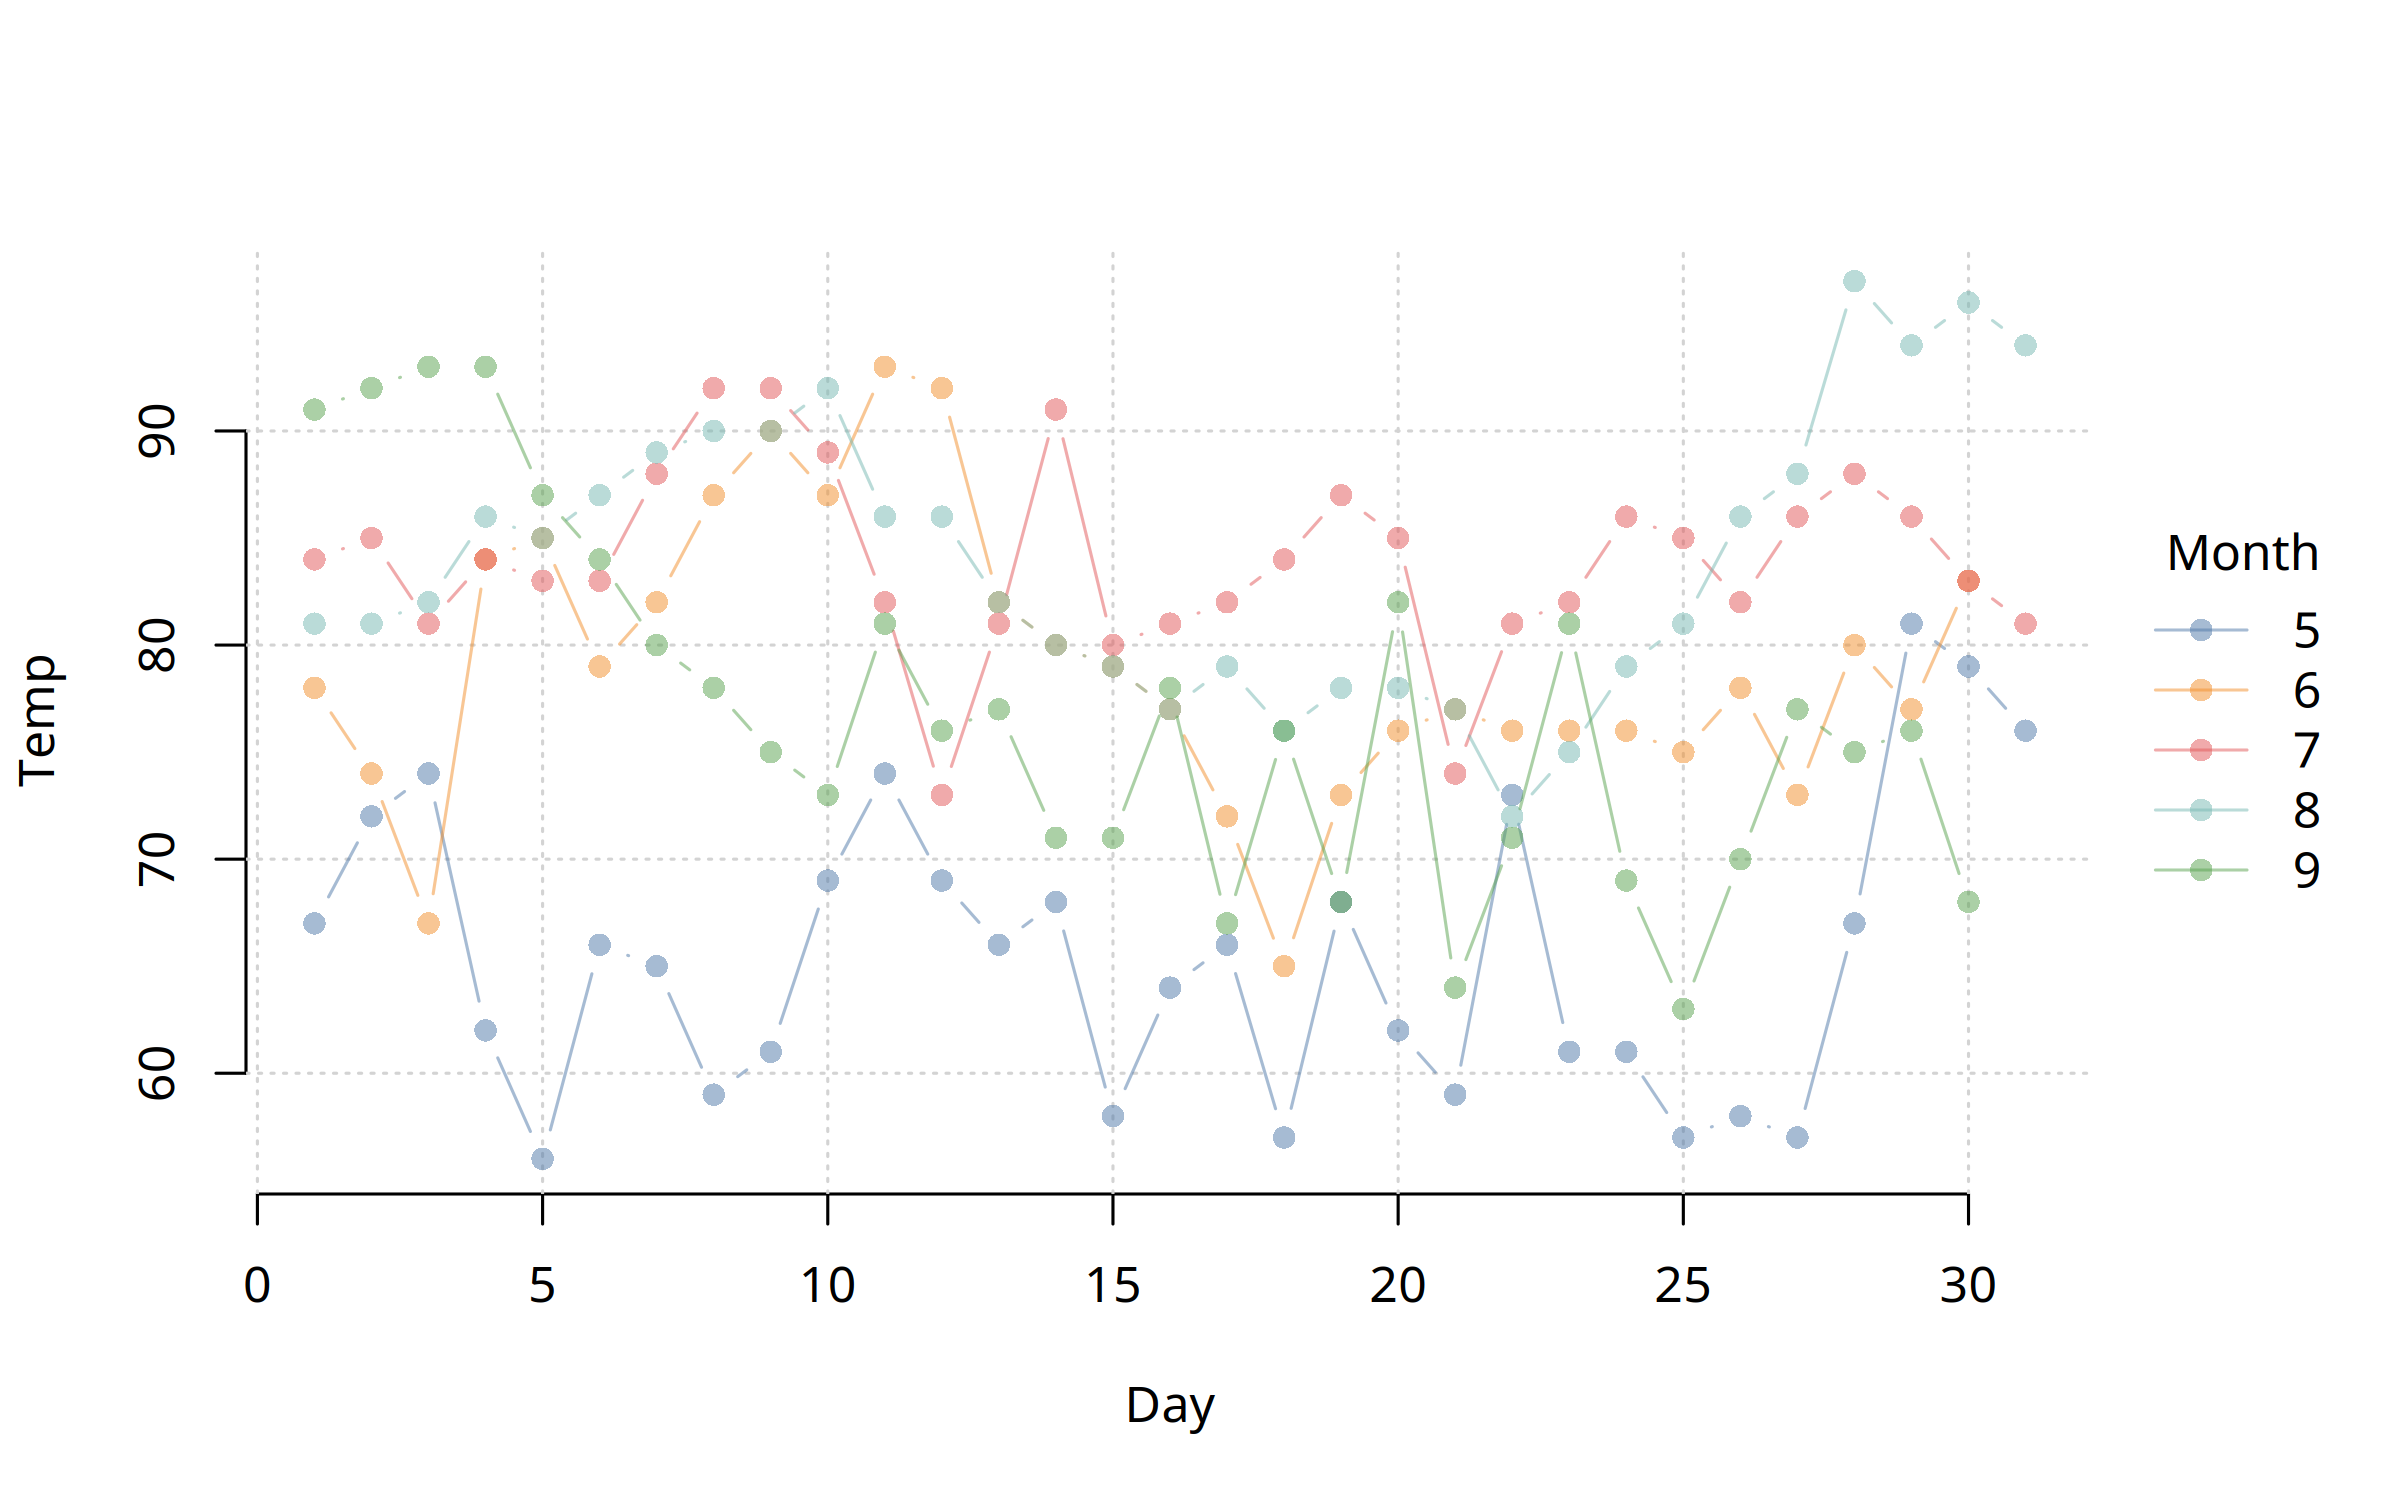
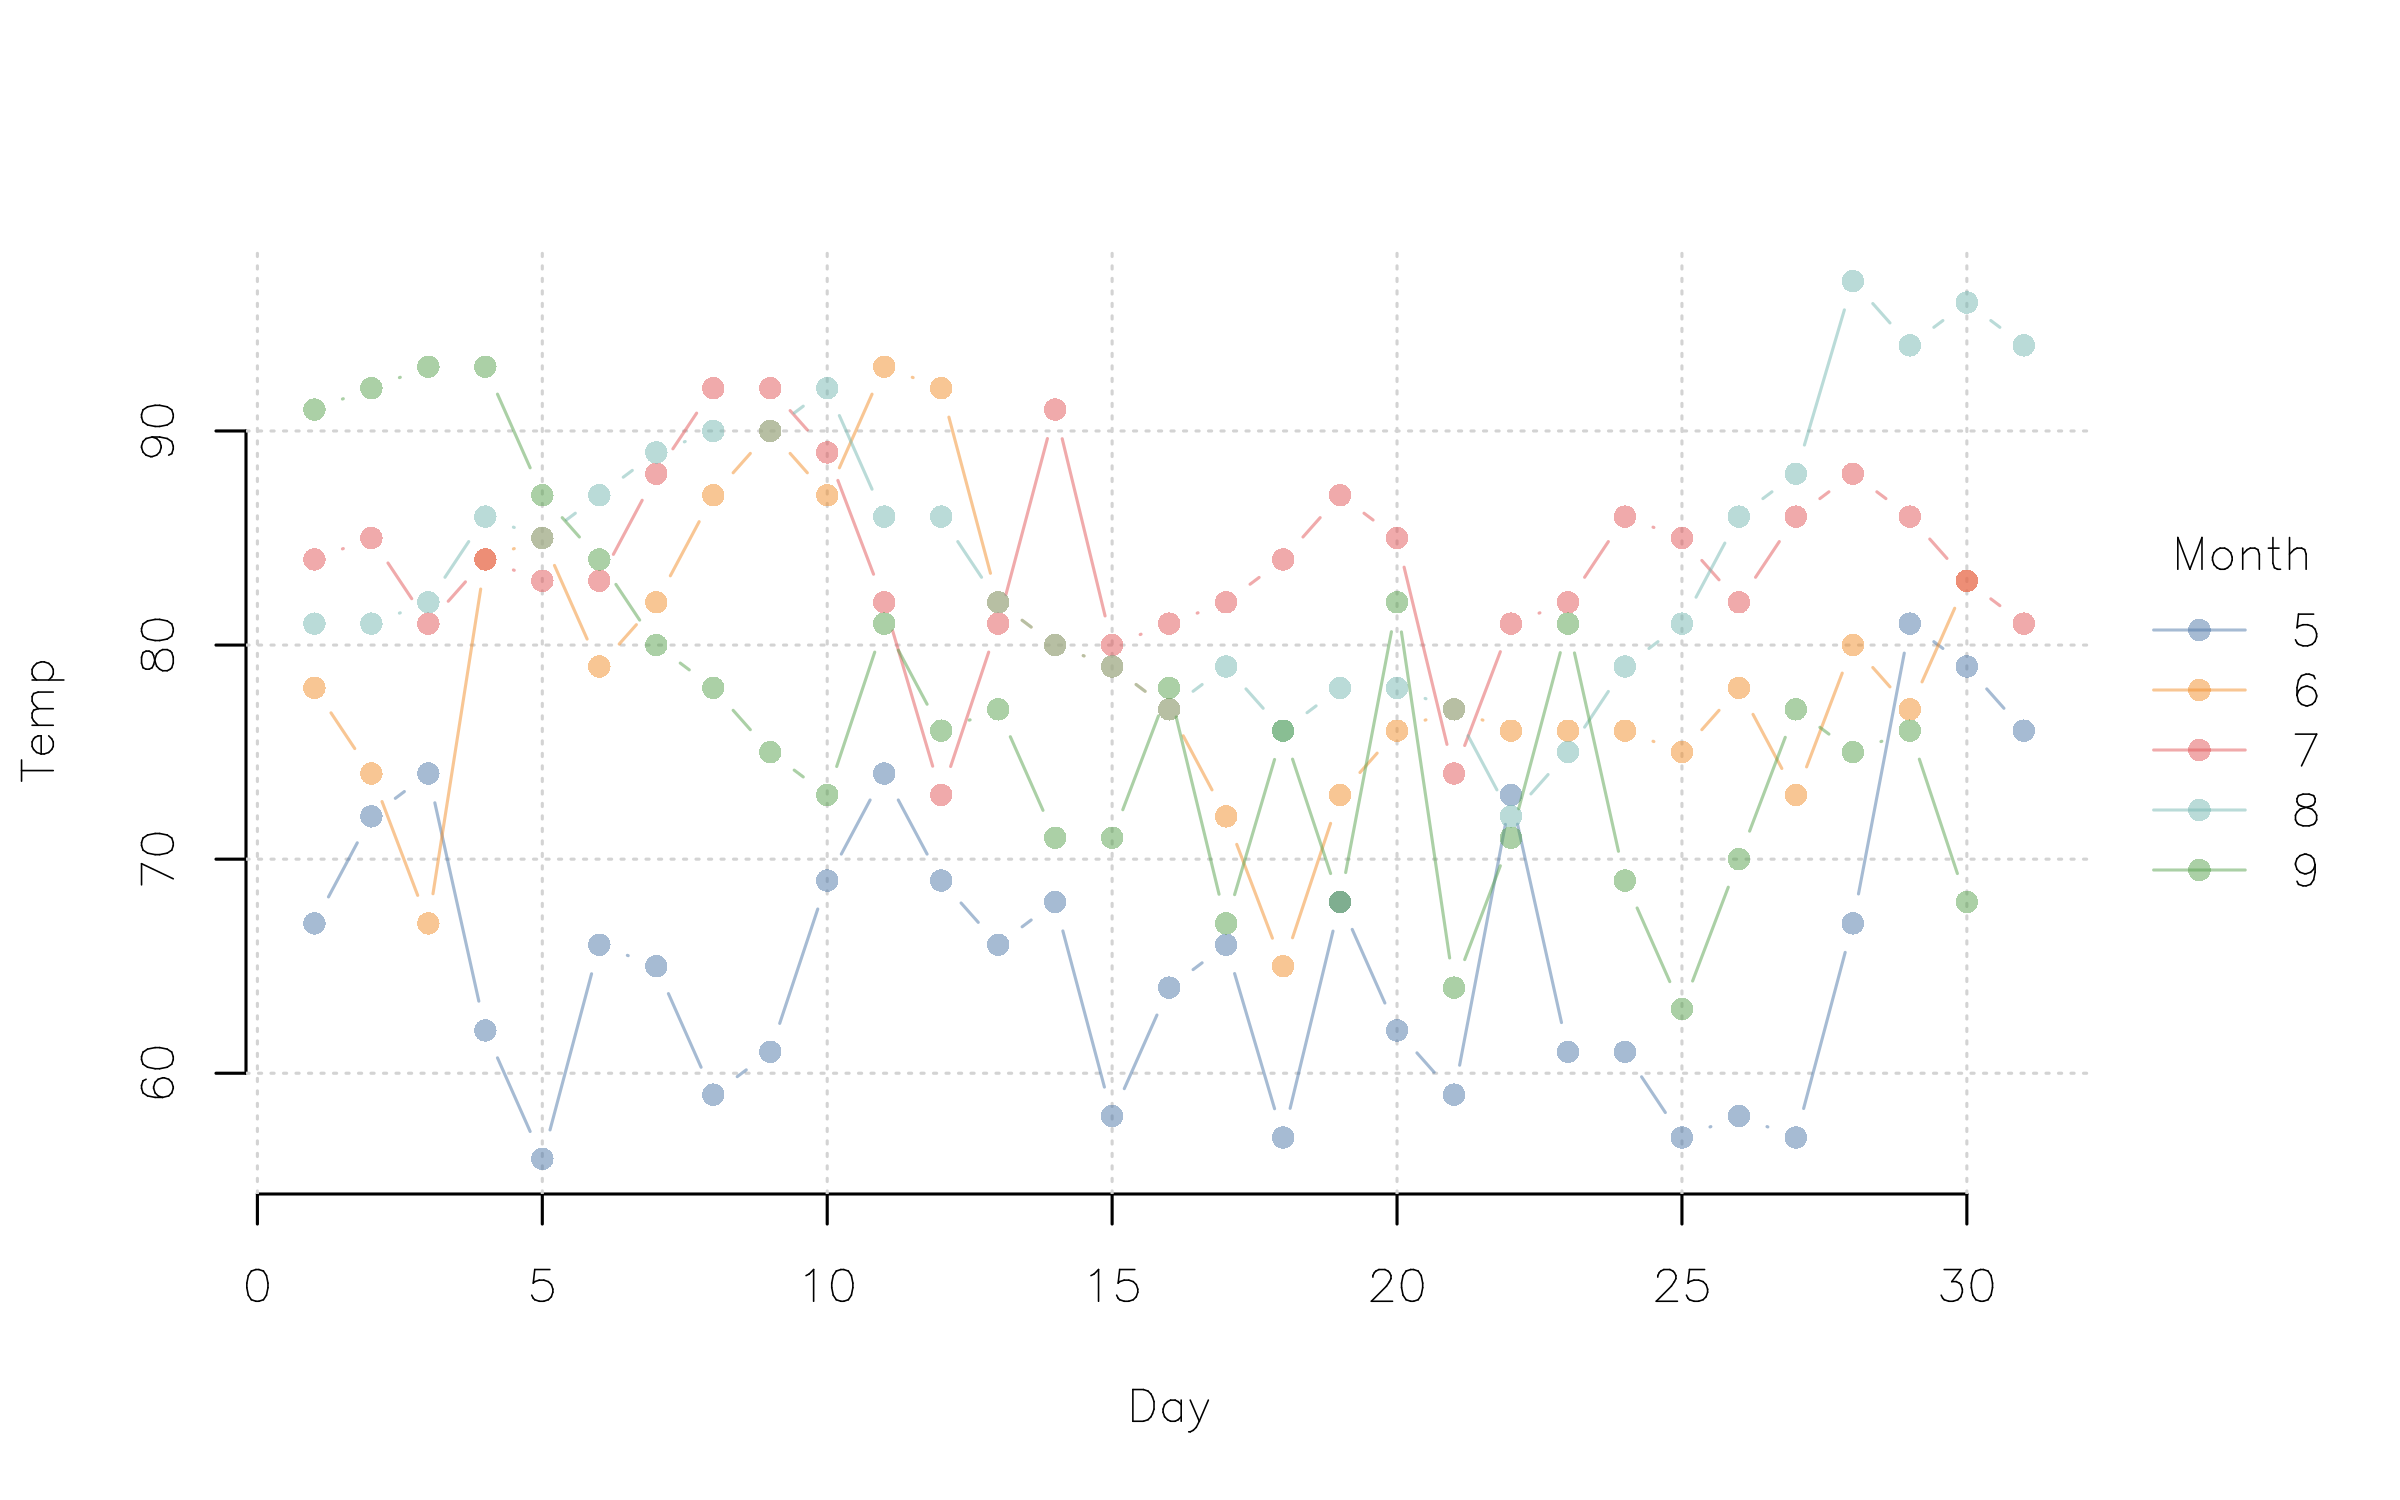
README again

diff --git a/README.md b/README.md
@@ -168,7 +168,7 @@ penultimate example, where we also show off `plot2`’s enhanced `grid`
 argument.
 
 ``` r
-par(family = "Hershey") # Use R's built-in Hershey fonts instead of Arial default
+par(family = "HersheySans") # Use one of R's built-in Hershey fonts instead of Arial default
 
 plot2(
   Temp ~ Day | Month, airquality,
@@ -189,6 +189,8 @@ the former. For nice out-of-the-box themes, I recommend the
 **basetheme** package.
 
 ``` r
+par(family = "") # revert global font change from above
+
 library(basetheme)
 basetheme("royal") # or "clean", "dark", "ink", "brutal", etc.
 
@@ -204,7 +206,7 @@ plot2(
 
 ``` r
 
-# basetheme(NULL) # back to default
+basetheme(NULL)  # back to default theme
 ```
 
 [^1]: At this point, experienced base plot users might protest that you
